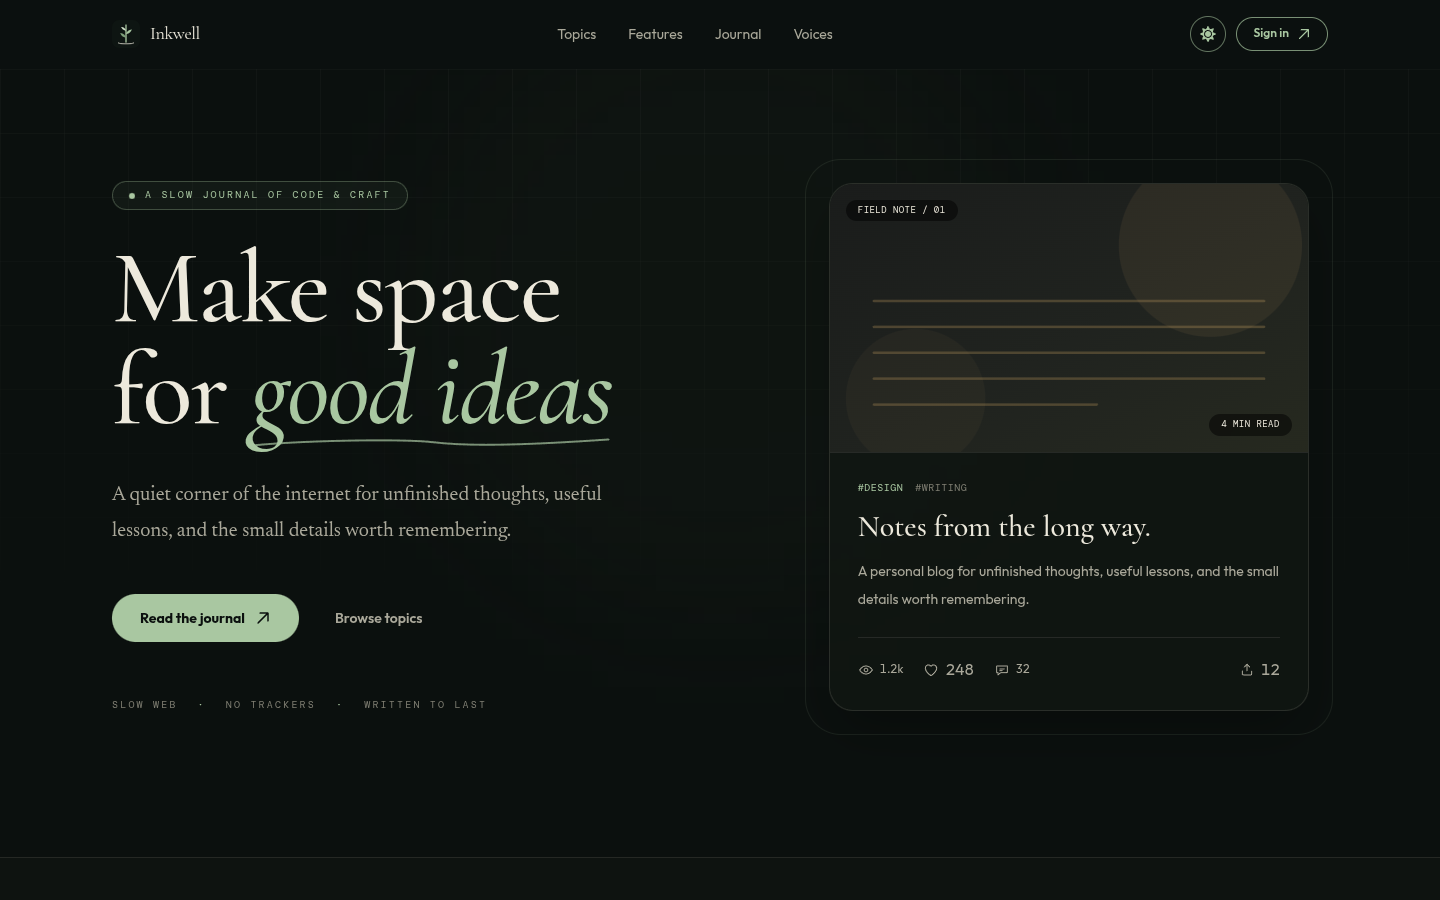
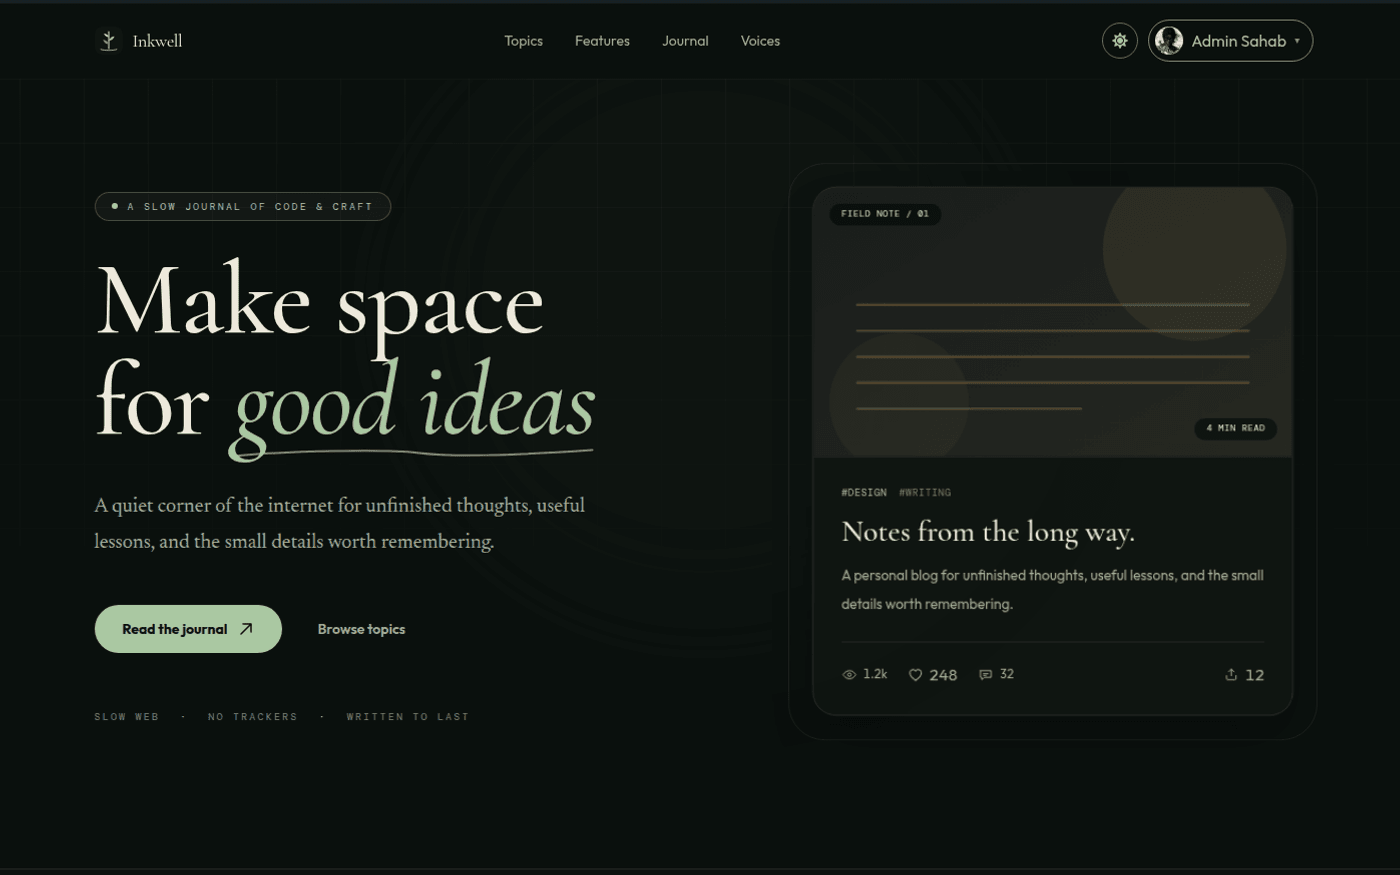
feat(projects): redesign project cards and refresh hero screenshots
Cards were a flat image-plus-text stack that read plainer than the rest of
the site. Give them the same editorial language: 16/10 media, a hairline that
draws across the top on hover, a slow image push-in with a scrim that deepens,
a floating open affordance, capped mono tech chips, and a dashed rule before
the Live/source row. The whole card is now clickable, so the footer links stay
as the explicit destinations.

Also crop the Soso, Vigil, CodeVault and Inkwell screenshots to 16/10 so every
project has artwork, which removes the imageless gap in the grid.

diff --git a/src/components/project/ProjectCard.tsx b/src/components/project/ProjectCard.tsx
@@ -3,89 +3,130 @@ import { IconBadge } from "../IconBadge";
 import { TechIcon } from "../TechIcon";
 import type { Project } from "@/data/projects";
 
+const VISIBLE_TECH = 4;
+
 export function ProjectCard({ project }: { project: Project }) {
+  const shownTech = project.tech.slice(0, VISIBLE_TECH);
+  const hiddenTechCount = project.tech.length - shownTech.length;
+  const destination = project.live ?? project.github;
+
   return (
-    <article className="group flex h-full flex-col gap-3 overflow-hidden rounded-2xl bg-neutral-50/50 shadow-sm shadow-neutral-900/[0.03] ring-1 ring-neutral-200/70 transition-all duration-300 hover:-translate-y-1 hover:bg-neutral-50 hover:shadow-md hover:shadow-neutral-900/[0.06] hover:ring-neutral-300/80 dark:bg-neutral-900/50 dark:shadow-neutral-950/30 dark:ring-neutral-800/70 dark:hover:bg-neutral-900 dark:hover:shadow-neutral-950/50 dark:hover:ring-neutral-700/80">
+    <article className="group/card relative flex h-full flex-col overflow-hidden rounded-2xl bg-white/70 shadow-[0_1px_2px_rgba(10,10,10,0.04)] ring-1 ring-neutral-200/70 transition-[transform,box-shadow,background-color,ring-color] duration-500 ease-[cubic-bezier(0.22,1,0.36,1)] hover:-translate-y-1.5 hover:bg-white hover:shadow-[0_30px_60px_-32px_rgba(10,10,10,0.35)] hover:ring-neutral-300/80 dark:bg-neutral-900/40 dark:shadow-none dark:ring-neutral-800/70 dark:hover:bg-neutral-900 dark:hover:shadow-[0_30px_60px_-32px_rgba(0,0,0,0.8)] dark:hover:ring-neutral-700/80">
+      <span
+        aria-hidden
+        className="pointer-events-none absolute inset-x-0 top-0 z-30 h-px origin-left scale-x-0 bg-gradient-to-r from-transparent via-neutral-400/80 to-transparent transition-transform duration-700 ease-[cubic-bezier(0.22,1,0.36,1)] group-hover/card:scale-x-100 dark:via-neutral-500/70"
+      />
+
       {project.image && (
-        <div className="relative aspect-[4/3] overflow-hidden">
+        <div className="relative aspect-[16/10] overflow-hidden bg-neutral-100 dark:bg-neutral-950">
           <Image
             src={project.image}
             alt={`${project.title} preview`}
             fill
             sizes="(max-width: 768px) 100vw, 50vw"
-            className="object-cover transition-transform duration-500 ease-out group-hover:scale-[1.04]"
+            className="object-cover object-top brightness-[0.97] saturate-[0.9] transition-[transform,filter] duration-[900ms] ease-[cubic-bezier(0.22,1,0.36,1)] group-hover/card:scale-[1.05] group-hover/card:brightness-100 group-hover/card:saturate-100"
           />
+          <span
+            aria-hidden
+            className="absolute inset-0 bg-gradient-to-t from-neutral-950/45 via-neutral-950/5 to-transparent opacity-55 transition-opacity duration-500 group-hover/card:opacity-90"
+          />
+          <span
+            aria-hidden
+            className="absolute bottom-3 right-3 grid size-8 translate-y-1.5 place-items-center rounded-full bg-white/90 text-[13px] text-neutral-900 opacity-0 shadow-sm backdrop-blur transition-all duration-500 ease-[cubic-bezier(0.22,1,0.36,1)] group-hover/card:translate-y-0 group-hover/card:opacity-100"
+          >
+            ↗
+          </span>
         </div>
       )}
-      <div className="flex flex-col gap-3 px-4 pb-4">
-        <div className="flex items-center gap-2">
-          <div className="transition-transform duration-300 group-hover:-rotate-6 group-hover:scale-110">
+
+      <div className="flex flex-1 flex-col gap-3 px-4 pb-4 pt-4 sm:px-5 sm:pb-5">
+        <div className="flex items-center gap-2.5">
+          <span className="shrink-0 transition-transform duration-500 ease-[cubic-bezier(0.22,1,0.36,1)] group-hover/card:-rotate-6 group-hover/card:scale-110">
             {project.logo ? (
               <Image
                 src={project.logo}
-                alt={`${project.title} logo`}
-                width={32}
-                height={32}
-                className="aspect-square size-8 rounded-md object-contain ring-1 ring-neutral-200/70 dark:ring-neutral-800/70"
+                alt=""
+                width={36}
+                height={36}
+                className="size-9 rounded-lg object-contain ring-1 ring-neutral-200/80 dark:ring-neutral-800/80"
               />
             ) : (
               <IconBadge name={project.tech[0]} />
             )}
-          </div>
-          <h3 className="text-sm font-medium text-foreground">
+          </span>
+          <h3 className="min-w-0 flex-1 truncate font-display text-[1.0625rem] font-medium leading-tight tracking-tight">
             {project.title}
           </h3>
-          <span className="ml-auto font-mono text-xs font-light text-foreground/50">
+          <span className="shrink-0 font-mono text-[11px] font-light tabular-nums tracking-widest text-foreground/45">
             {project.year}
           </span>
         </div>
 
-        <p className="text-sm leading-relaxed text-foreground/70 text-pretty">
+        <p className="line-clamp-2 text-sm leading-relaxed text-pretty text-foreground/65 transition-colors duration-500 group-hover/card:text-foreground/80">
           {project.description[0]}
         </p>
 
-        <div className="flex flex-wrap gap-2 pt-1">
-          {project.tech.map((t) => (
+        <div className="flex flex-wrap gap-1.5">
+          {shownTech.map((tech) => (
             <span
-              key={t}
-              className="inline-flex items-center gap-1.5 rounded-full border border-neutral-200 bg-neutral-50 px-2 py-0.5 text-xs font-medium text-foreground/70 transition-colors duration-200 hover:border-neutral-300 hover:bg-neutral-100 dark:border-neutral-800 dark:bg-neutral-900 dark:hover:border-neutral-700 dark:hover:bg-neutral-800"
+              key={tech}
+              className="inline-flex items-center gap-1.5 rounded-full border border-neutral-200/80 px-2 py-0.5 font-mono text-[11px] text-foreground/60 transition-colors duration-500 group-hover/card:border-neutral-300 group-hover/card:text-foreground/80 dark:border-neutral-800 dark:group-hover/card:border-neutral-700"
             >
-              <TechIcon name={t} className="size-3.5" />
-              {t}
+              <TechIcon name={tech} className="size-3.5" />
+              {tech}
             </span>
           ))}
+          {hiddenTechCount > 0 && (
+            <span className="inline-flex items-center px-1 py-0.5 font-mono text-[11px] text-foreground/40">
+              +{hiddenTechCount}
+            </span>
+          )}
         </div>
 
-        <div className="mt-auto flex items-center gap-4 pt-2 text-sm">
+        <div className="mt-auto flex items-center gap-4 border-t border-dashed border-neutral-200 pt-3 text-sm transition-colors duration-500 group-hover/card:border-neutral-300 dark:border-neutral-800 dark:group-hover/card:border-neutral-700">
           {project.live ? (
             <a
               href={project.live}
-              className="group/link inline-flex items-center gap-1.5 font-medium text-foreground/70 transition-colors hover:text-primary"
+              target="_blank"
+              rel="noopener noreferrer"
+              className="group/live relative z-20 inline-flex items-center gap-2 font-medium text-foreground/70 transition-colors hover:text-primary"
             >
-              <span className="size-1.5 animate-pulse rounded-full bg-green-500 shadow-[0_0_8px_2px_rgba(34,197,94,0.7)]" />
+              <span className="relative flex size-1.5">
+                <span className="absolute inline-flex size-full animate-ping rounded-full bg-emerald-400 opacity-70" />
+                <span className="relative inline-flex size-1.5 rounded-full bg-emerald-500" />
+              </span>
               Live
-              <span className="transition-transform duration-200 group-hover/link:translate-x-0.5">
+              <span className="transition-transform duration-300 group-hover/live:translate-x-0.5">
                 ↗
               </span>
             </a>
           ) : (
-            <span className="inline-flex items-center gap-1.5 font-medium text-foreground/70">
-              <span className="size-1.5 animate-pulse rounded-full bg-orange-500 shadow-[0_0_8px_2px_rgba(249,115,22,0.7)]" />
+            <span className="relative z-20 inline-flex items-center gap-2 font-medium text-foreground/70">
+              <span className="relative inline-flex size-1.5 rounded-full bg-amber-500 shadow-[0_0_8px_2px_rgba(245,158,11,0.45)]" />
               Building
             </span>
           )}
-          <span className="size-1 rounded-full bg-neutral-200 dark:bg-neutral-700" />
           <a
             href={project.github}
-            className="group/link inline-flex items-center gap-1 font-medium text-foreground/70 transition-colors hover:text-primary"
+            target="_blank"
+            rel="noopener noreferrer"
+            className="group/source relative z-20 ml-auto inline-flex items-center gap-1.5 font-mono text-[11px] uppercase tracking-widest text-foreground/50 transition-colors hover:text-primary"
           >
-            GitHub
-            <span className="transition-transform duration-200 group-hover/link:translate-x-0.5">
+            source
+            <span className="transition-transform duration-300 group-hover/source:translate-x-0.5">
               ↗
             </span>
           </a>
         </div>
       </div>
+
+      <a
+        href={destination}
+        target="_blank"
+        rel="noopener noreferrer"
+        aria-label={`Open ${project.title}`}
+        className="absolute inset-0 z-10"
+      />
     </article>
   );
 }

diff --git a/src/data/projects.ts b/src/data/projects.ts
@@ -252,6 +252,8 @@ export const projects: Project[] = [
     title: "Soso",
     year: "2026",
     tech: ["Next.js", "React", "TypeScript", "Tailwind CSS", "Zustand"],
+    image: "/projects/soso.png",
+    logo: "/projects/soso.svg",
     description: [
       "Built a local-first card studio for developers and creators — 8 templates across code, terminal, repo, profile, quote, metric, changelog, and link, edited inline and exported at feed-perfect sizes with no account and no server-side card data.",
       "Engineered client-side export to PNG/JPEG/WebP/SVG from 720p through 4K with 8 aspect ratios plus custom ratios, 12 backgrounds, and 6 font pairs, keeping every draft in IndexedDB through lz-string and idb-keyval.",
